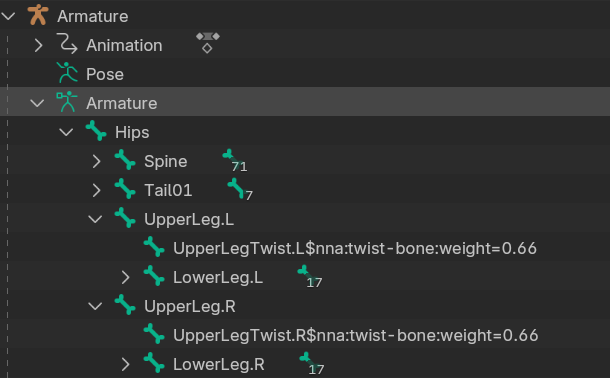
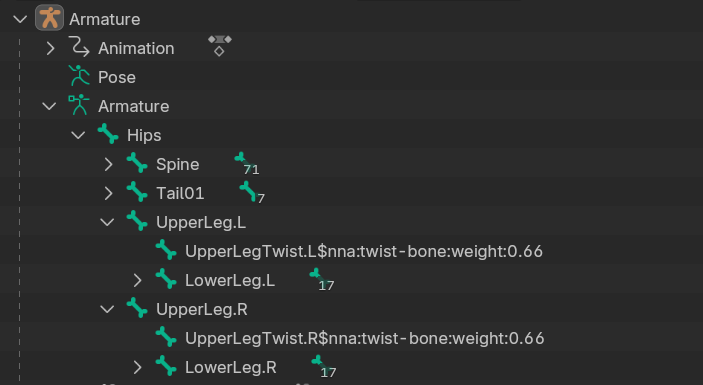
definition more json like

Changed region(s): [[0.0, 0.0, 1.0, 0.9021], [0.1869, 0.9312, 0.5295, 1.0]]

diff --git a/Runtime/Util/ParseUtil.cs b/Runtime/Util/ParseUtil.cs
@@ -64,13 +64,13 @@ namespace nna
 				properties = NNAStrings
 					.OrderByDescending(s => int.Parse(s.Substring(0, numLen)))
 					.Select(s => s.Substring(numLen))
-					.Select(s => s.EndsWith(';') ? s : s + ';')
+					.Select(s => s.EndsWith(',') ? s : s + ',')
 					.Aggregate((a, b) => a + b)
-					.Split(';');
+					.Split(',');
 			}
 			else
 			{
-				properties = NNADefinition.Split(';');
+				properties = NNADefinition.Split(',');
 			}
 
 
@@ -78,7 +78,7 @@ namespace nna
 			{
 				if(property.Length == 0) continue;
 				
-				var propertyName = property.Substring(0, property.IndexOf('=')).Trim();
+				var propertyName = property.Substring(0, property.IndexOf(':')).Trim();
 
 				if(property.Length < propertyName.Length + 3)
 				{
@@ -86,7 +86,7 @@ namespace nna
 					continue;
 				}
 
-				var propertyValue = property.Substring(property.IndexOf('=') + 1).Trim();
+				var propertyValue = property.Substring(property.IndexOf(':') + 1).Trim();
 				
 				if(propertyValue == "t" || propertyValue == "f" || propertyValue == "true" || propertyValue == "false")
 				{

diff --git a/readme.md b/readme.md
@@ -14,7 +14,7 @@ Since to my knowledge Blender allows only a maximum node-name length 61 bytes, N
 ## Example
 In order to define a twist-bone as such, name it the following way:
 ```
-LowerArmTwist.L$nna:twist-bone:weight=0.6
+LowerArmTwist.L$nna:twist-bone:weight:0.6
 ```
 The Parser for the type `twist-bone` will create a `RotationConstraint` and set the source weight to 0.6.
 Since no explicit source is specified, it will take the parent of the parent as the source.
@@ -29,7 +29,7 @@ The NNA definition, starting with `$nna` will be removed from the node-name. If 
 In that case the node has to have one or more childnodes whose names have to consist purely of NNA definitions, each starting with a line number.
 The child-node(s) could be named the following way:
 ```
-01weight=0.66;target=$ref:../Hand.L
+01weight:0.66;target:$ref:../Hand.L
 ```
 I have no clue if the node-order is guaranteed to be preserved across various file-formats and their various implementations. The default line-number length is 2. Should the definition exceed 99 lines/child-nodes, then the NNA node can be defined as follows:
 ```
